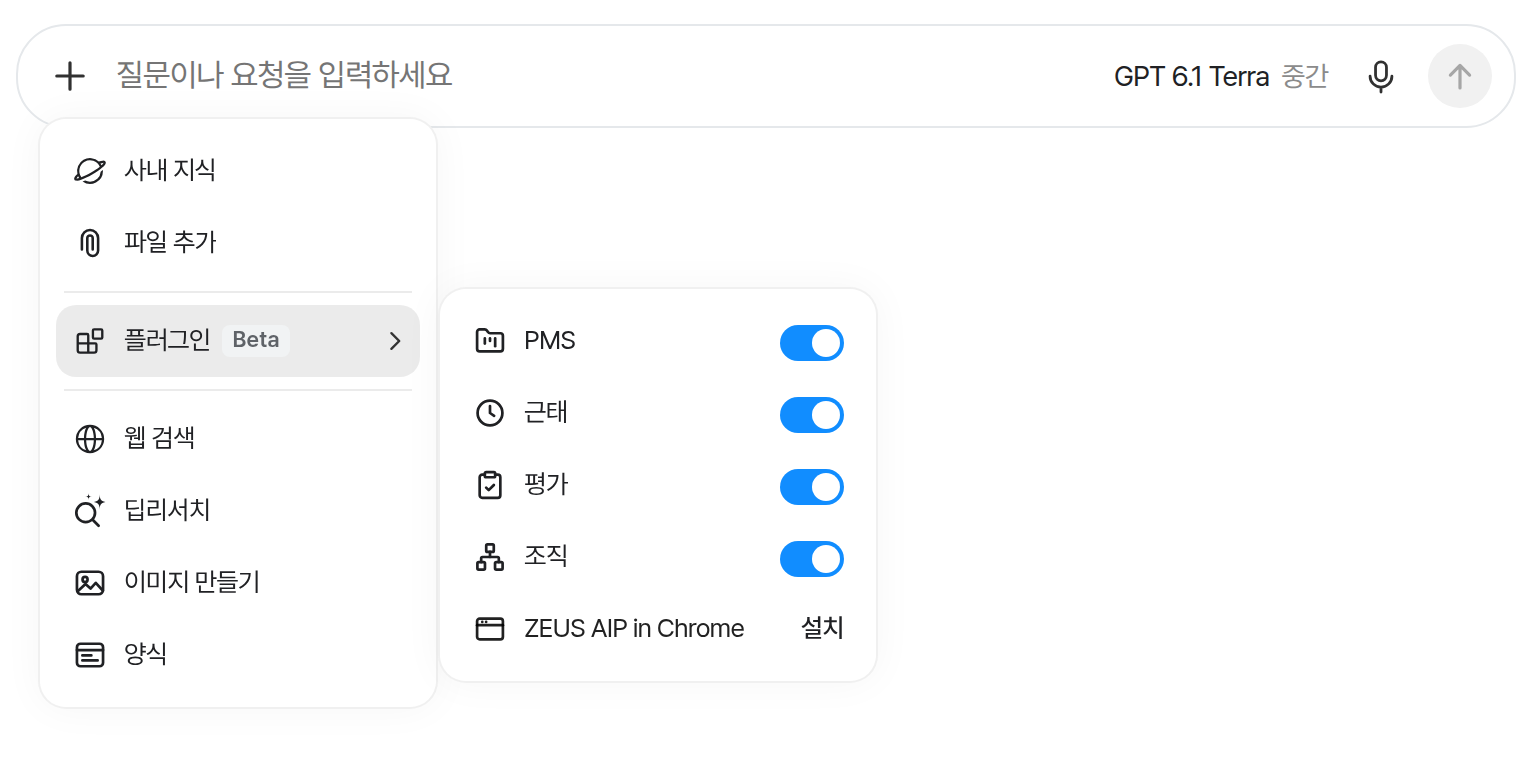
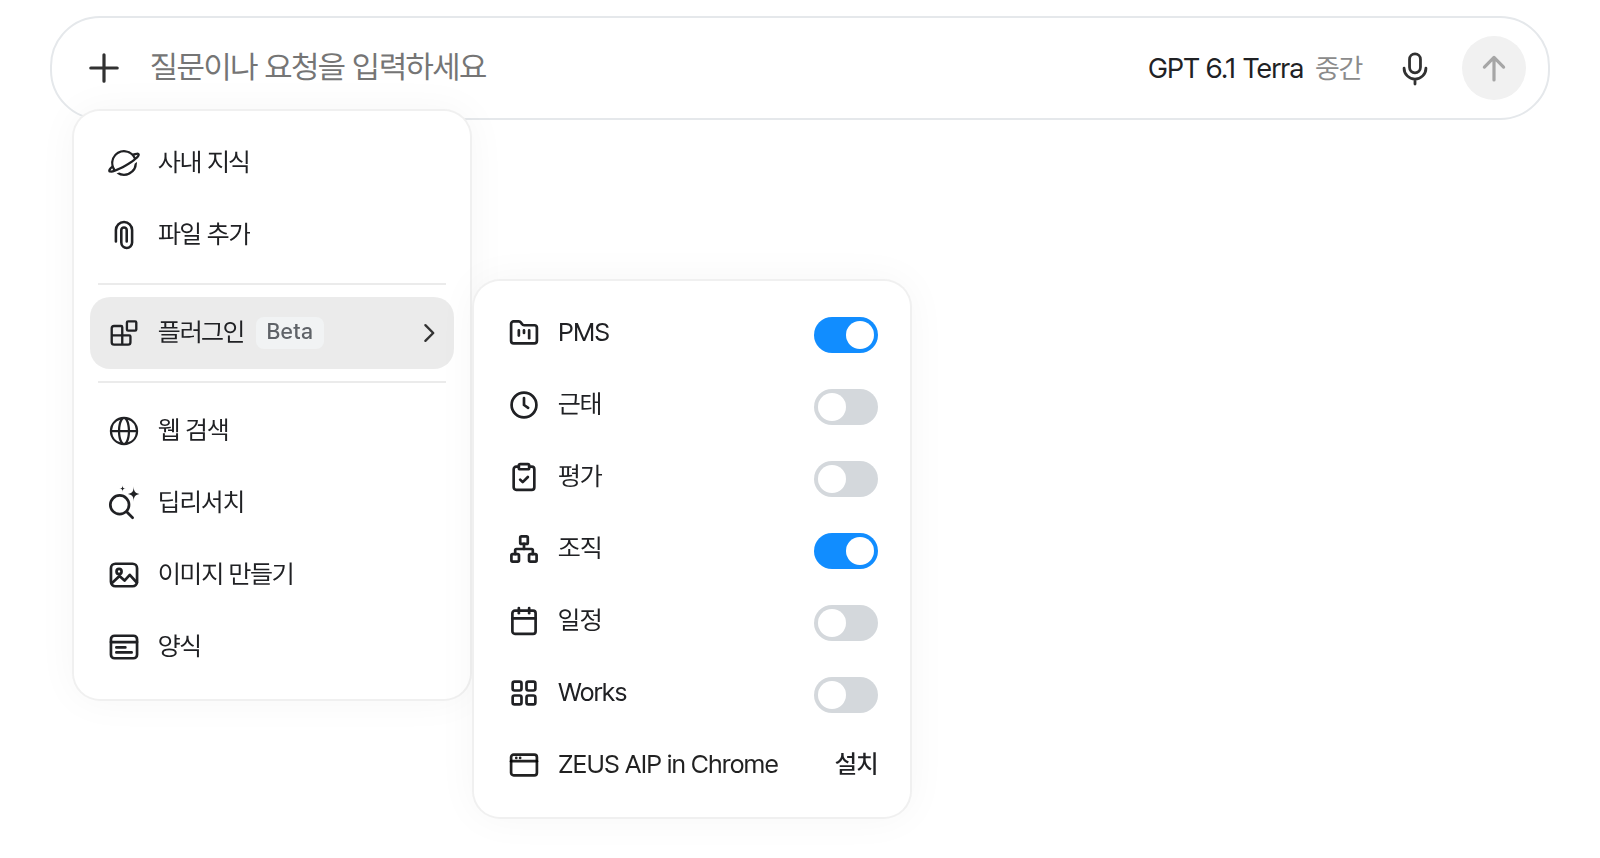
content(ai-platform): + 메뉴 플러그인 캡처를 일정과 Works가 보이는 지금 화면으로 다시 찍음

diff --git a/src/content/builds.ts b/src/content/builds.ts
@@ -473,7 +473,7 @@ export const builds: Build[] = [
       { type: 'paragraph', text: '지금은 외부 AI 도구에 MCP로 열어 둔 도구를 채팅에도 플러그인으로 그대로 붙였습니다. 채팅용 도구를 따로 두었을 때는 같은 질문도 어디서 묻느냐에 따라 답이 달랐기 때문입니다.' },
       { type: 'paragraph', text: '플러그인은 + 메뉴에서 영역마다 끌 수 있고, 끈 영역을 물으면 어디서 켜는지 알려 줍니다.' },
       { type: 'paragraph', text: '일정은 Brity 캘린더에서 읽고, 동료의 일정은 캘린더에서 내게 보이는 만큼만 엽니다.' },
-      { type: 'image', src: '/projects/ai-platform/196.png', alt: '입력창 + 메뉴의 플러그인 - PMS, 근태, 평가, 조직을 켜고 끄는 토글', caption: '+ 메뉴의 플러그인' },
+      { type: 'image', src: '/projects/ai-platform/196.png', alt: '입력창 + 메뉴의 플러그인 - PMS, 근태, 평가, 조직, 일정, Works를 켜고 끄는 토글', caption: '+ 메뉴의 플러그인' },
       { type: 'heading', text: '되묻기' },
       { type: 'paragraph', text: '문서를 만들어 달라는 요청에 재료가 부족하면, 지어내지 않고 입력창 위에 질문 카드를 띄워 먼저 묻습니다. 질문은 한 번에 두 개까지이고, 에이전트가 낸 선택지 아래에 직접 입력 칸이 항상 붙습니다.' },
       { type: 'paragraph', text: '답은 카드에 모았다가 마지막 질문에 답할 때 "질문: / 답변:" 으로 묶어 한 번에 보냅니다. 고른 항목만 보내면 에이전트가 그게 무엇에 대한 답인지 모르기 때문입니다.' },

diff --git a/src/content/imageDims.ts b/src/content/imageDims.ts
@@ -46,7 +46,7 @@ export const imageDims: Record<string, { w: number; h: number }> = {
   '/projects/ai-platform/193.png': { w: 2880, h: 1800 },
   '/projects/ai-platform/194.png': { w: 2880, h: 1800 },
   '/projects/ai-platform/195.png': { w: 2880, h: 1800 },
-  '/projects/ai-platform/196.png': { w: 1532, h: 765 },
+  '/projects/ai-platform/196.png': { w: 1600, h: 858 },
   '/projects/ai-platform/197.png': { w: 2715, h: 1674 },
   '/projects/ai-platform/24.png': { w: 2880, h: 1800 },
   '/projects/ai-platform/250.png': { w: 2880, h: 1800 },
